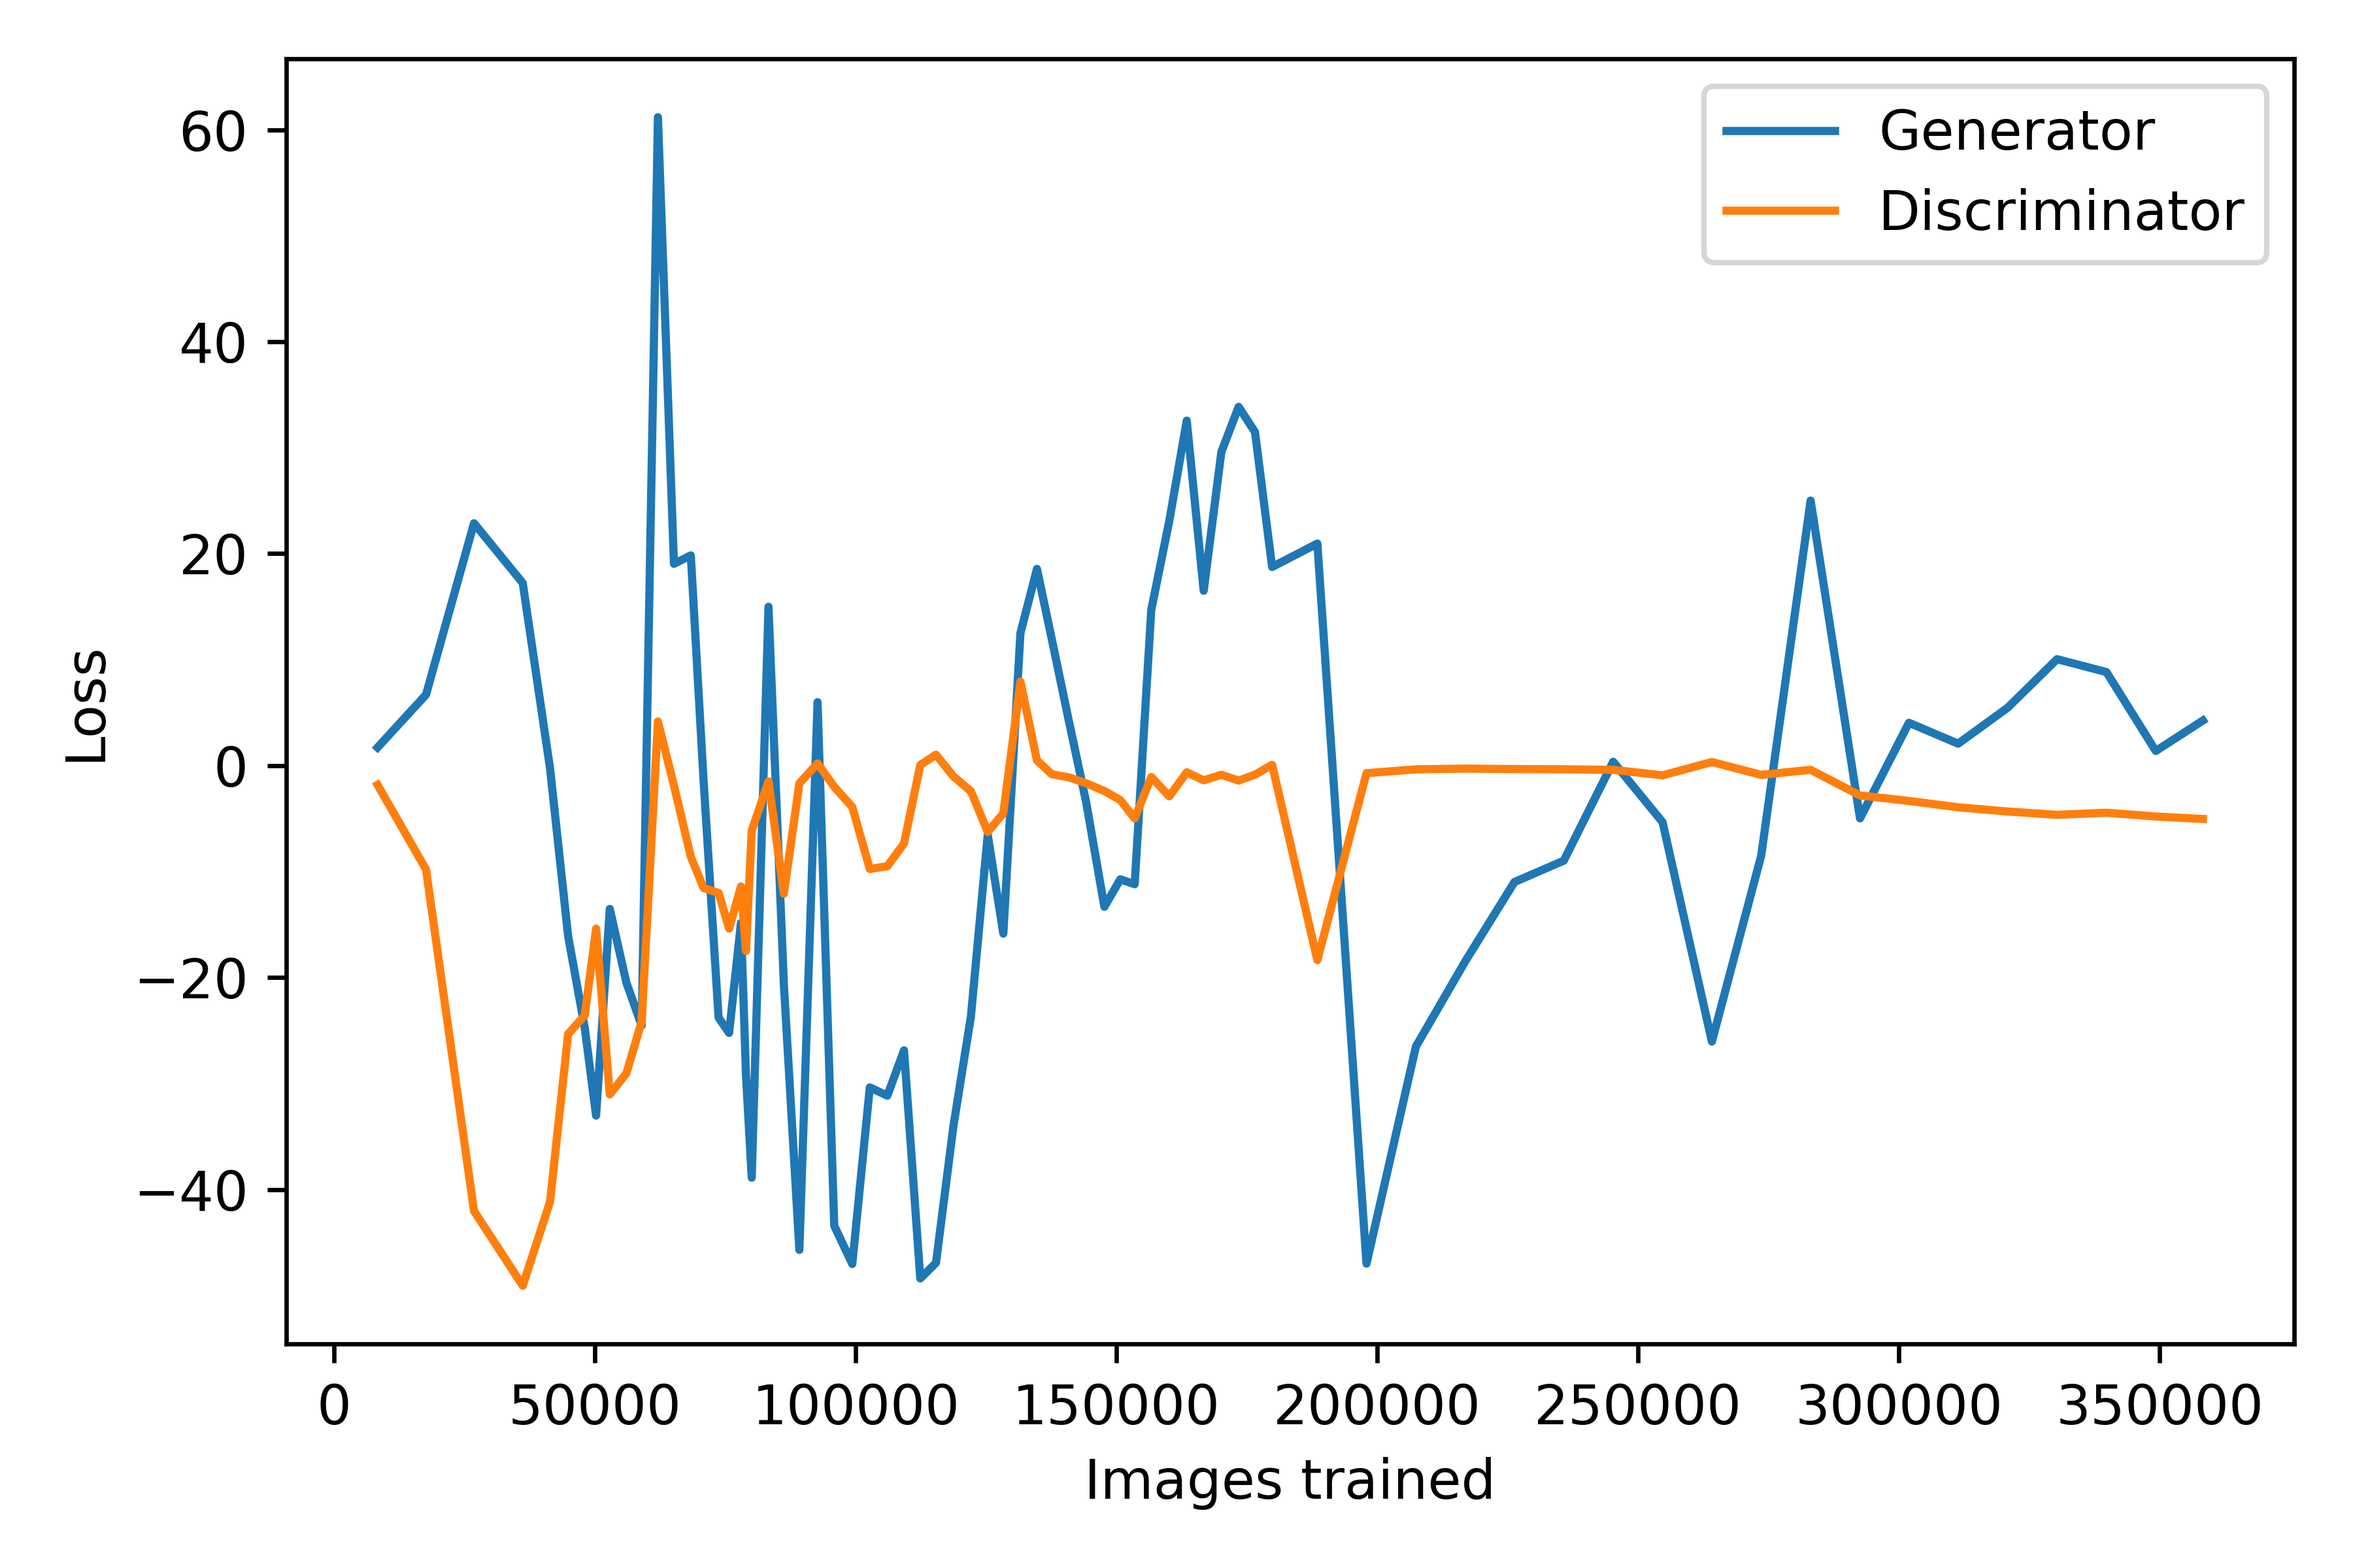
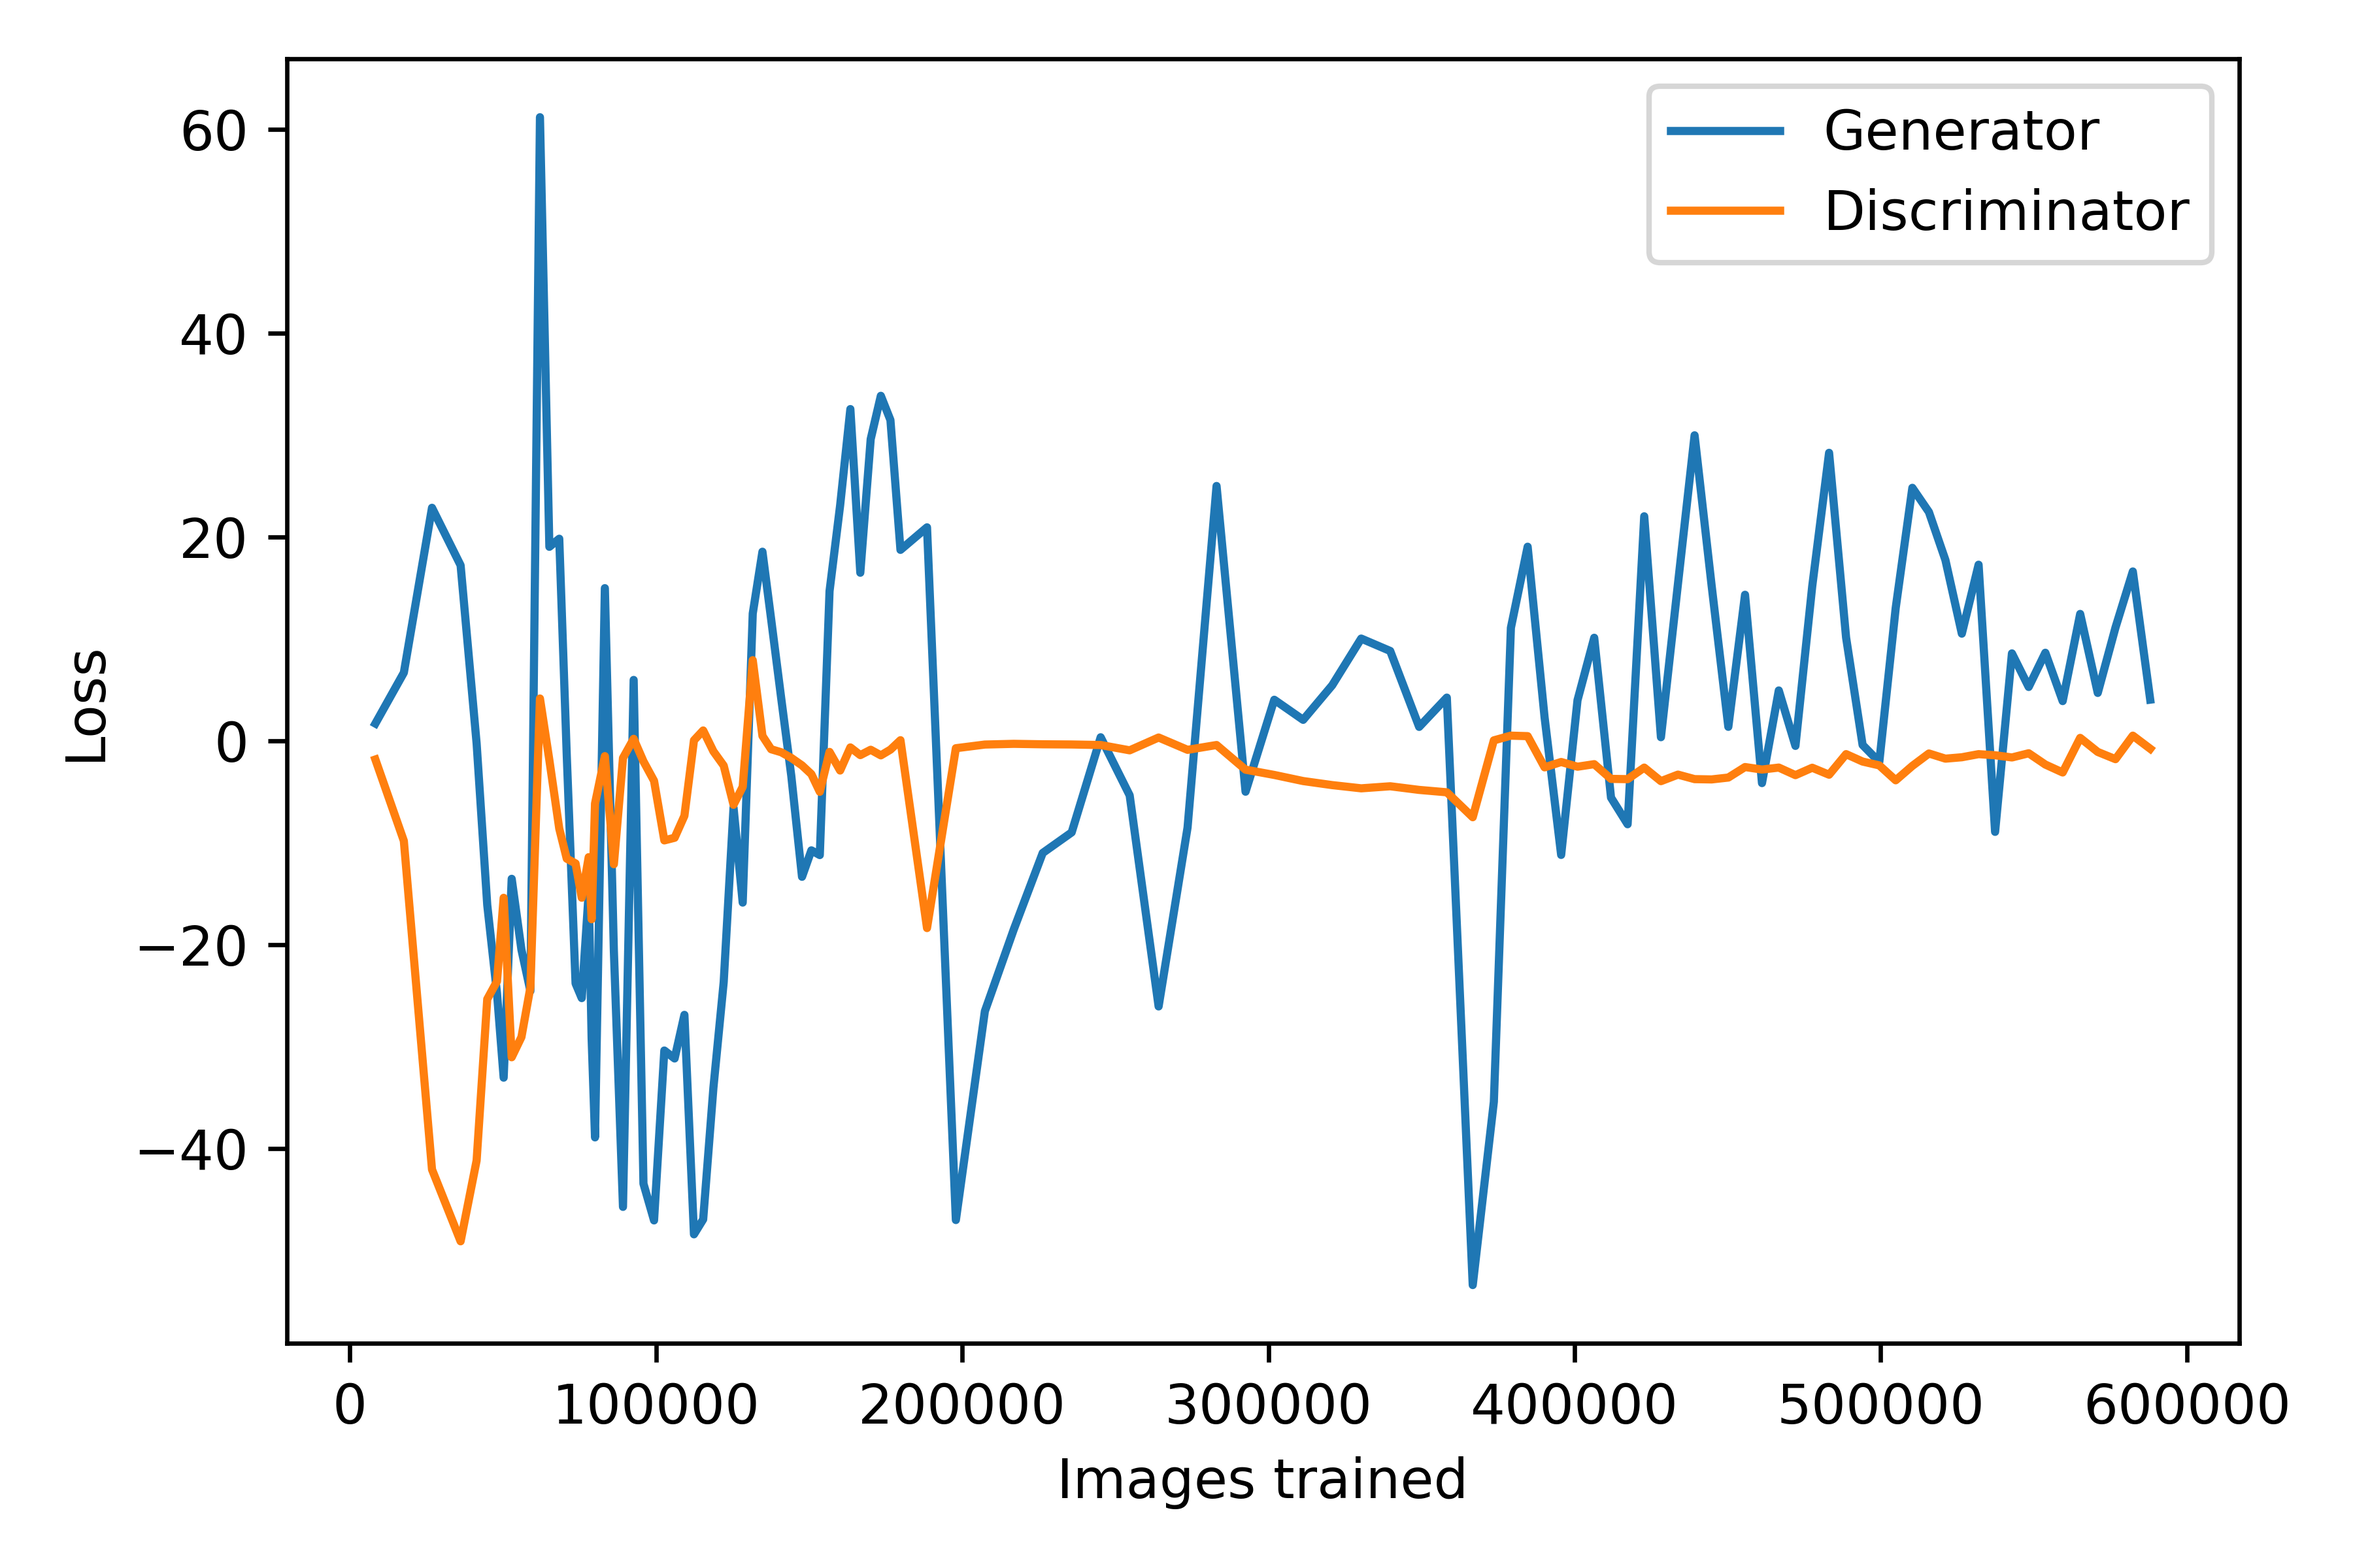
Continued training

diff --git a/main.py b/main.py
@@ -199,7 +199,7 @@ image_dict = {
 }
 
 dataset = "celeba"
-model_version = 70
+model_version = 111
 log_frequency = 12 * 60  # seconds
 git_log_frequency = 20  # versions
 
